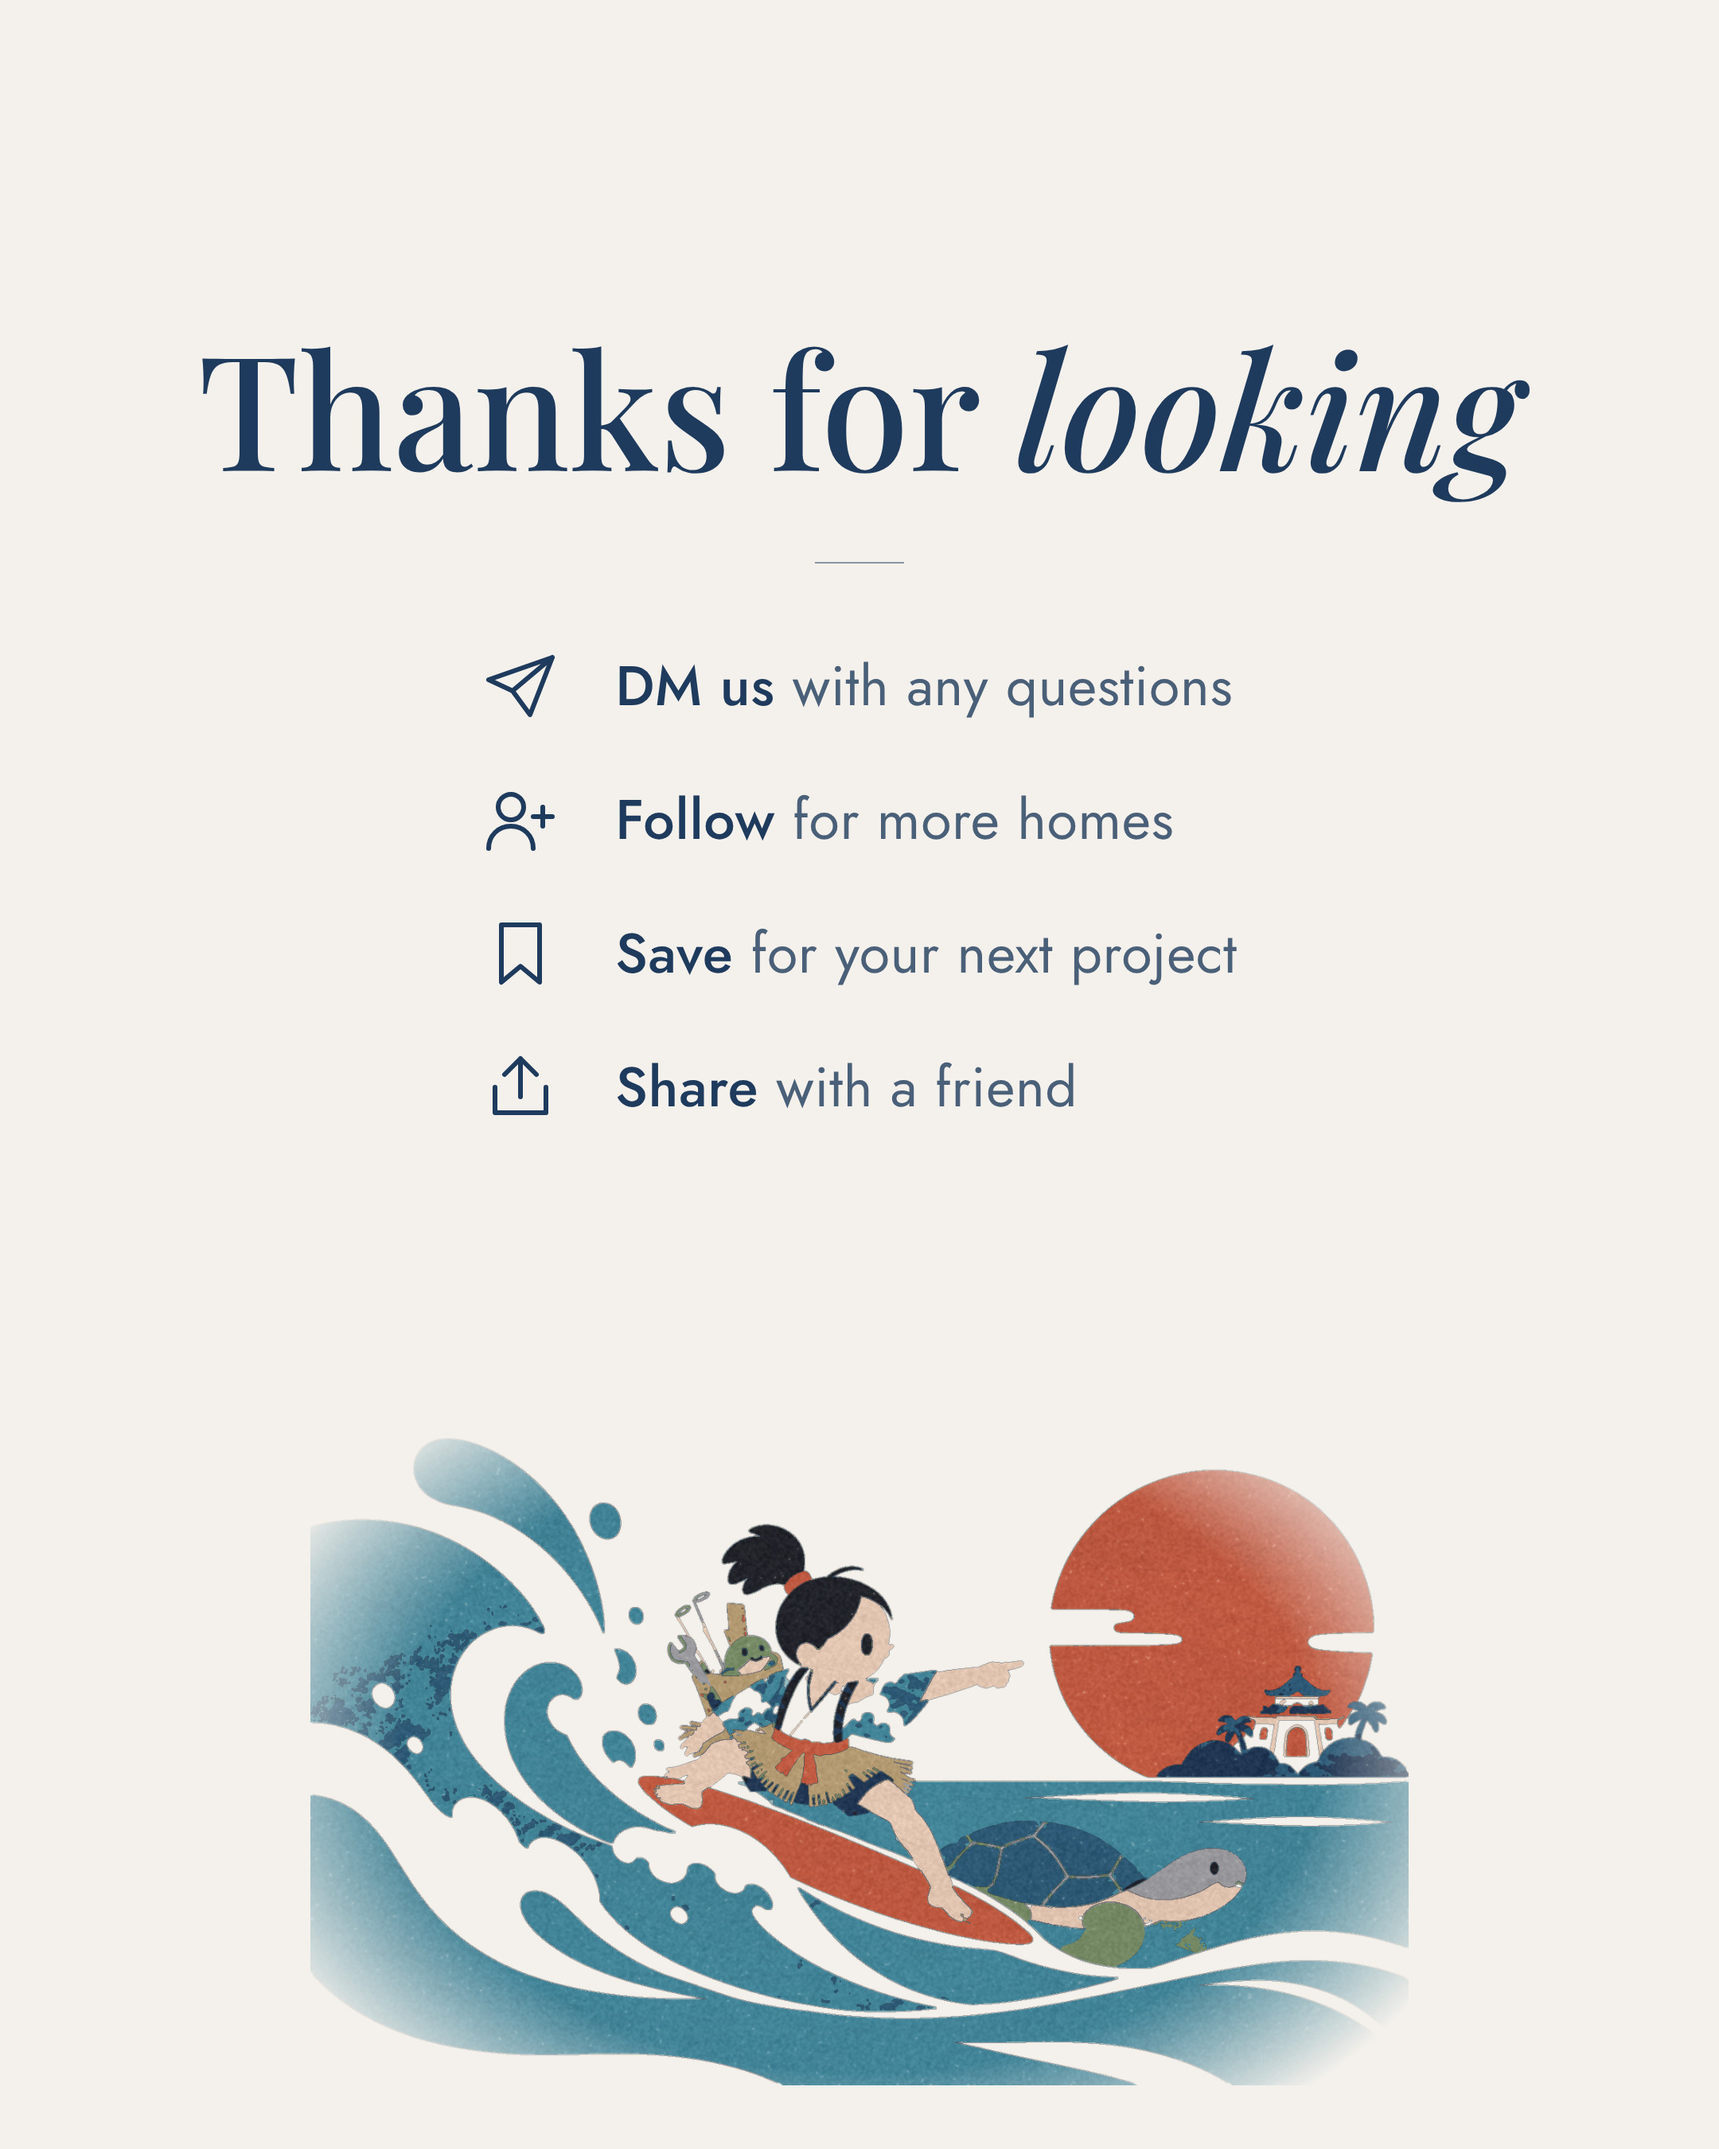
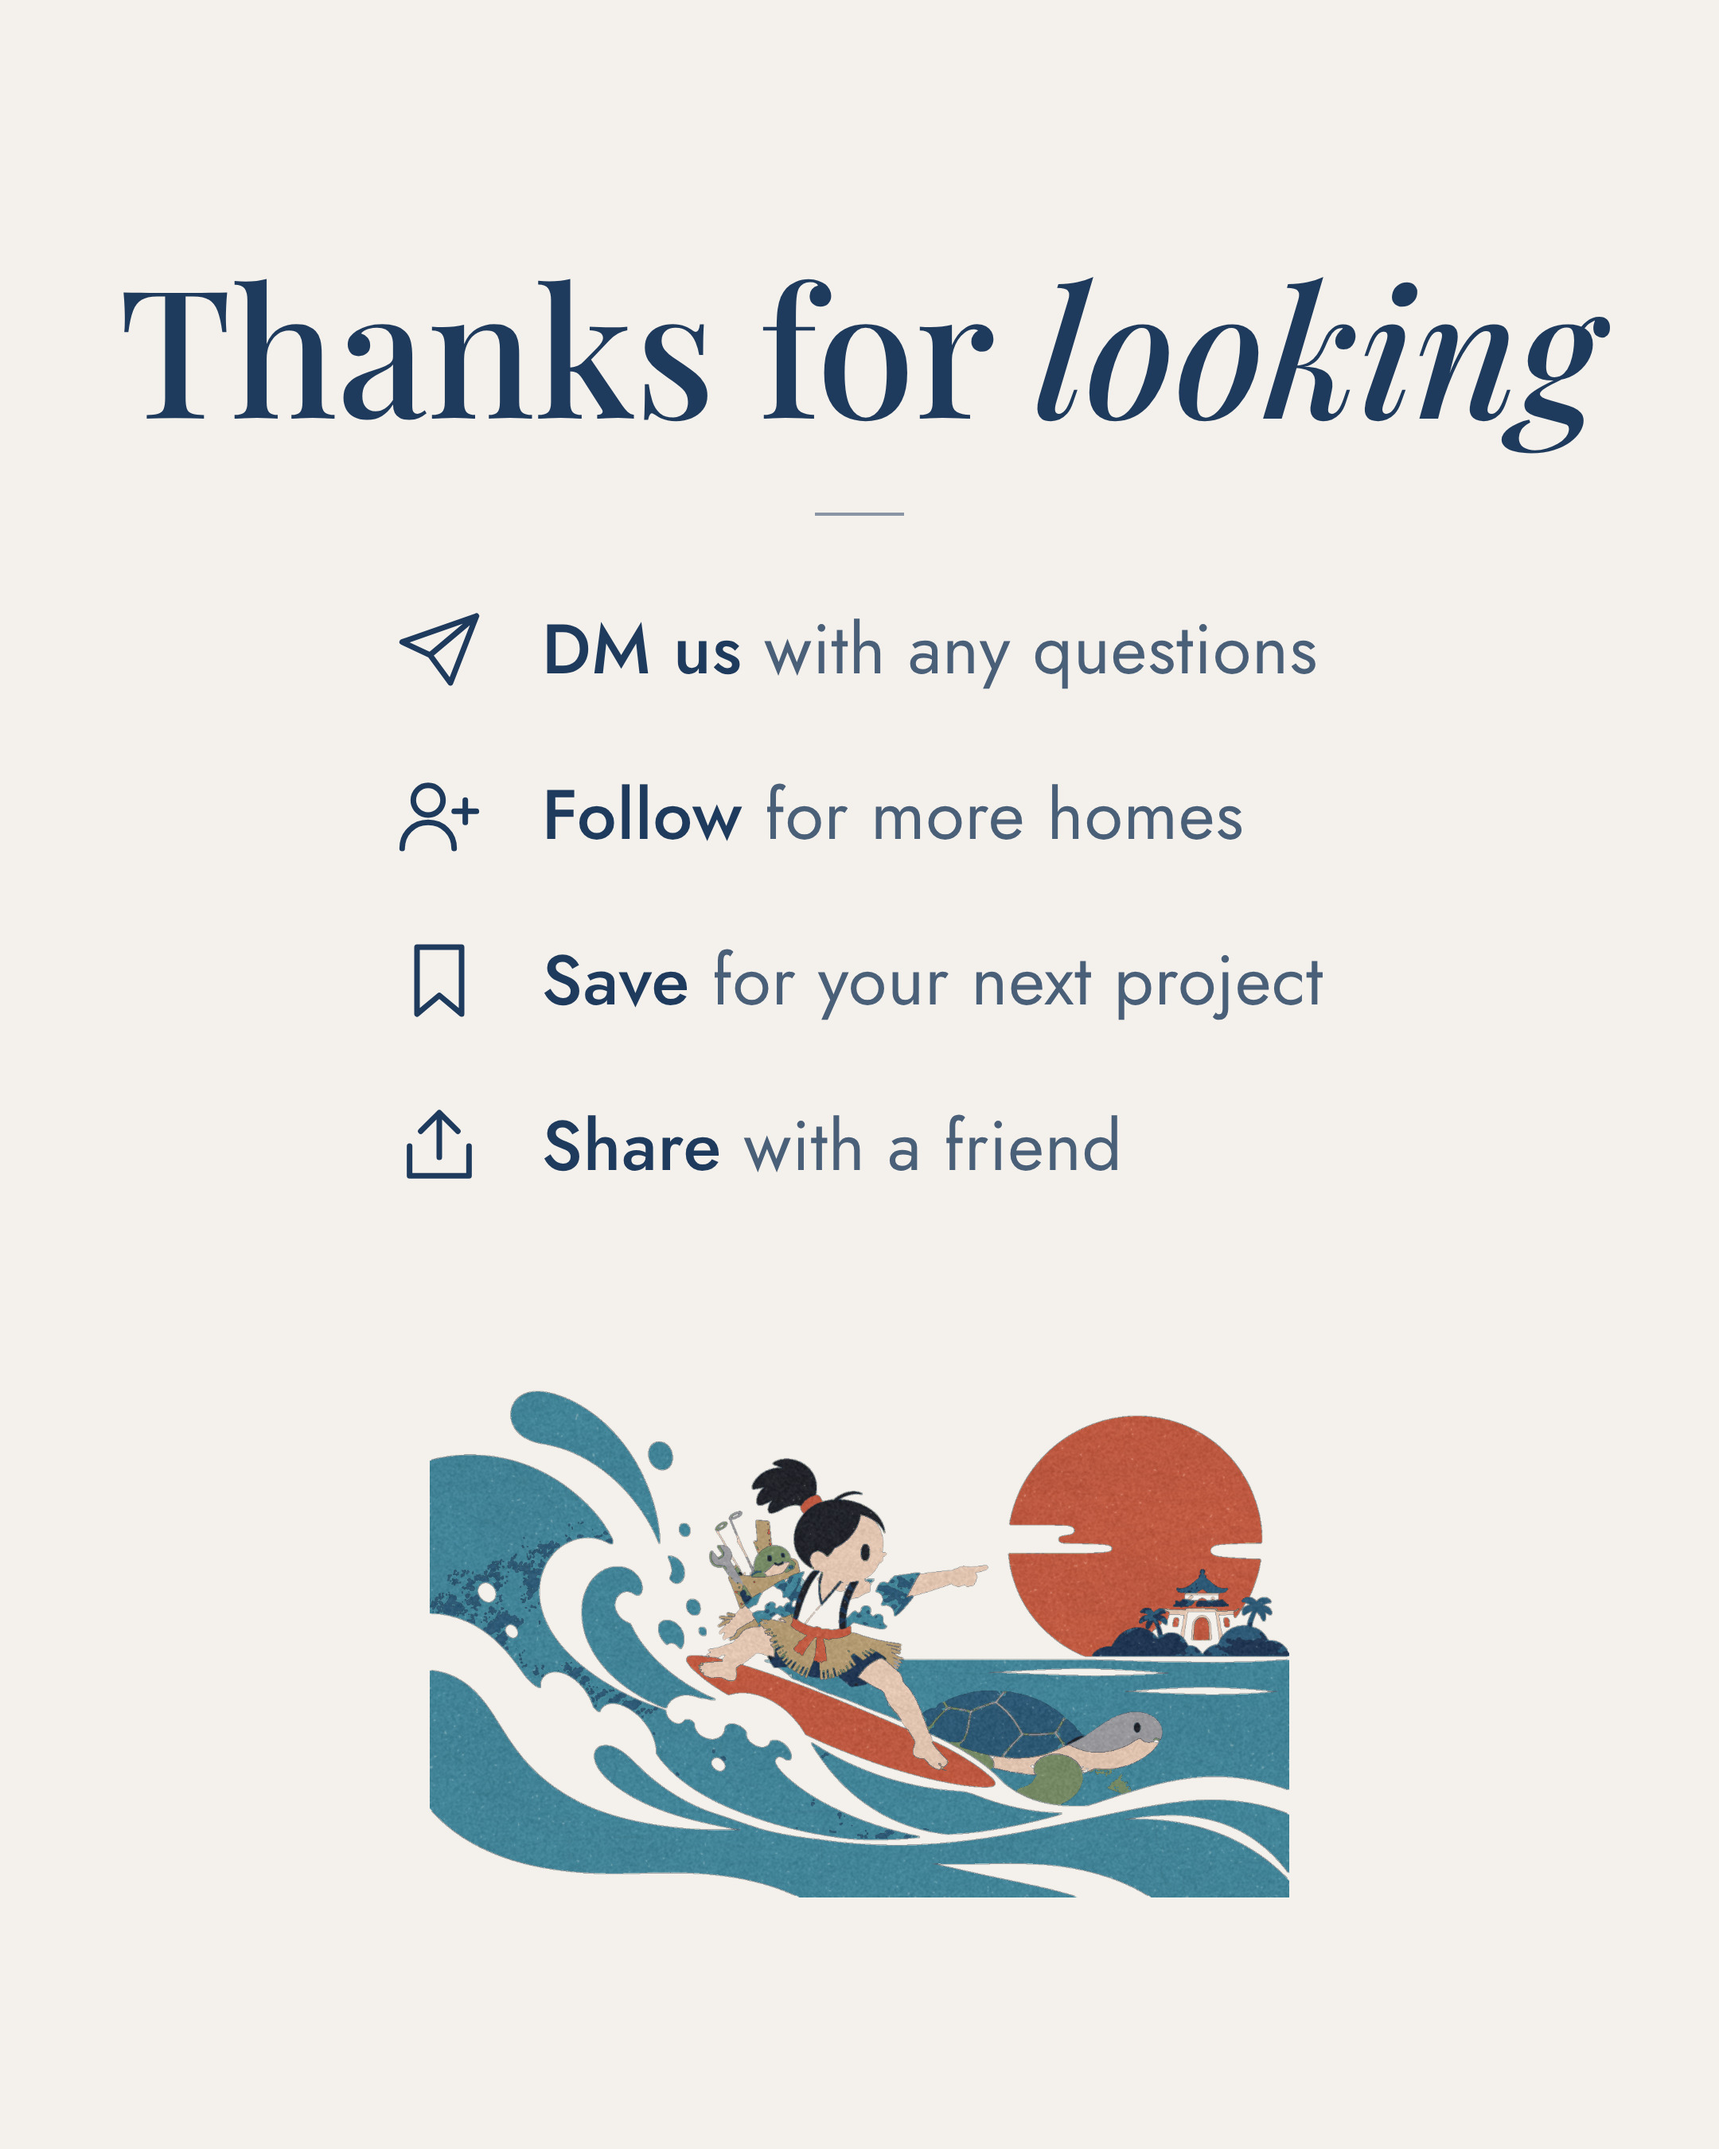
Instagram closing slide: whole illustration at a smaller size, larger text
Claude-Session: https://claude.ai/code/session_018kEBoUjPf4arsee4JEG76P

diff --git a/nami-website/design/instagram/last/make-last.py b/nami-website/design/instagram/last/make-last.py
@@ -10,17 +10,17 @@ li="".join(f'<li><svg viewBox="0 0 24 24">{s}</svg><p><b>{k}</b> {v}</p></li>' f
 open("final_last.html","w").write(f'''<!doctype html><html><head><meta charset=utf-8>
 <link href="https://fonts.googleapis.com/css2?family=Playfair+Display:ital,wght@0,500;1,500&family=Jost:wght@400;500&display=block" rel="stylesheet"><style>
 *{{margin:0;padding:0;box-sizing:border-box}}body{{width:1080px;height:1350px;color:#1e3a5c;font-family:Jost,sans-serif}}
-.s{{width:1080px;height:1350px;position:relative;overflow:hidden;background:#f4f1ec;display:flex;flex-direction:column;align-items:center;justify-content:center;padding-bottom:440px}}
+.s{{width:1080px;height:1350px;position:relative;overflow:hidden;background:#f4f1ec;display:flex;flex-direction:column;align-items:center;justify-content:center}}
 .k{{font-size:20px;letter-spacing:.42em;color:#7a8a9c}}
-h1{{font-family:'Playfair Display';font-weight:500;font-size:100px;line-height:1.05;text-align:center}}
+h1{{font-family:'Playfair Display';font-weight:500;font-size:112px;line-height:1.05;text-align:center}}
 h1 i{{font-style:italic}}
 .rule{{width:56px;height:1.5px;background:#1e3a5c;opacity:.5;margin:46px 0 52px}}
-ul{{list-style:none;display:flex;flex-direction:column;gap:34px}}
+ul{{list-style:none;display:flex;flex-direction:column;gap:40px}}
 li{{display:flex;align-items:center;gap:36px}}
-svg{{width:48px;height:48px;flex:none;fill:none;stroke:#1e3a5c;stroke-width:1.5;stroke-linejoin:round;stroke-linecap:round}}
-p{{font-size:35px;color:#4a5f78;letter-spacing:.01em}} b{{font-weight:500;color:#1e3a5c}}
+svg{{width:56px;height:56px;flex:none;fill:none;stroke:#1e3a5c;stroke-width:1.5;stroke-linejoin:round;stroke-linecap:round}}
+p{{font-size:44px;color:#4a5f78;letter-spacing:.01em}} b{{font-weight:500;color:#1e3a5c}}
 
-.ill{{position:absolute;left:50%;bottom:40px;transform:translateX(-50%);width:690px;height:460px;background:url(file://{I}) center/cover;filter:saturate(.85);-webkit-mask-image:radial-gradient(ellipse 60% 62% at 50% 55%,#000 70%,transparent 100%);mask-image:radial-gradient(ellipse 60% 62% at 50% 55%,#000 70%,transparent 100%)}}
+.ill{{margin-top:80px;width:540px;height:360px;background:url(file://{I}) center/contain no-repeat;filter:saturate(.85)}}
 </style></head><body><div class="s">
 <h1>Thanks for <i>looking</i></h1>
 <div class="rule"></div>
